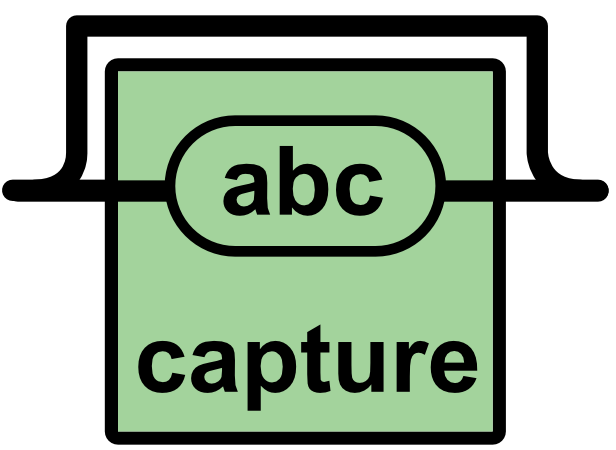
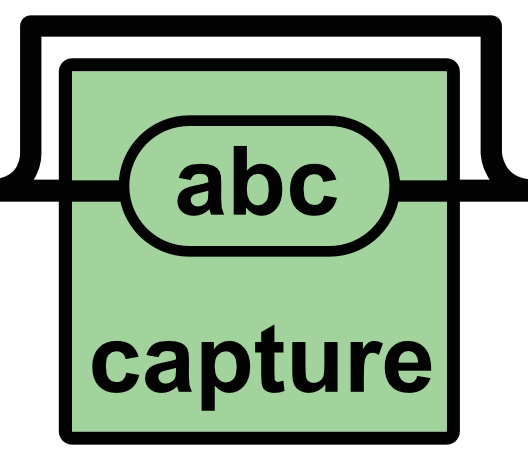
adds in new png files and tweaks CSS

diff --git a/client/index.html b/client/index.html
@@ -29,7 +29,7 @@
   <a href="https://github.com/RegExpress/regexpress"><img style="position: absolute; top: 0; left: 0; border: 0;" src="https://camo.githubusercontent.com/82b228a3648bf44fc1163ef44c62fcc60081495e/68747470733a2f2f73332e616d617a6f6e6177732e636f6d2f6769746875622f726962626f6e732f666f726b6d655f6c6566745f7265645f6161303030302e706e67" alt="Fork me on GitHub" data-canonical-src="https://s3.amazonaws.com/github/ribbons/forkme_left_red_aa0000.png"></a>
 
   <div class="howDoesItWork hidden" id="howDoesItHidden">
-    <div id="explanation">Welcome to RegExpress, a tool that lets you build regexes by creating a syntax diagram instead of having to memorize countless esoteric symbols.<br><br>RegExpress will show you the text and the "regex railroad" syntax diagram for any regular expression. Type in a regex to see the diagram it creates, or build your own out of the library components.<br></br><center> Read about how RegExpress was built <a class="blog" href="http://www.techphrasis.com/planting-a-regex-tree-the-building-of-regexpress/">here</a><center></div>
+    <div id="explanation">Welcome to RegExpress, a tool that lets you build regexes by creating a syntax diagram instead of having to memorize countless esoteric symbols.<br><br>RegExpress will show you the text and the "regex railroad" syntax diagram for any regular expression. Type in a regex to see the diagram it creates, or build your own out of the library components.<br></br>Each library component represents a type of character or group of characters. Together, these components will describe a pattern when read left to right on the railroad. This pattern is just another way to describe a regular expression.<br></br><center>Try the regex /(\w+!)/</center><br><center> Read about how RegExpress was built <a class="blog" href="http://www.techphrasis.com/planting-a-regex-tree-the-building-of-regexpress/">here</a><center></div>
 
     <div class="githublink"><a href="https://github.com/RegExpress/regexpress"><div id="contribute">Contribute to this open source project!</a></div><a href="https://github.com/RegExpress/regexpress"><img class="octocat" src="assets/octocat.png"></img></a></div>
   </div>
@@ -100,20 +100,20 @@
     <script src="bundle/bundle.js"></script>
     <script src="app/main/main.js"></script>
     <script src="app/main/main.service.js"></script>
+    <script src="components/aboutUs/informationDirective.directive.js"></script>
     <script src="components/matches/matches.directive.js"></script>
     <script src="components/matches/matches.factory.js"></script>
     <script src="components/modify-tree/modify-tree.factory.js"></script>
     <script src="components/railroad/railroad.click-helpers.factory.js"></script>
     <script src="components/railroad/railroad.directive.js"></script>
     <script src="components/railroad/railroad.service.js"></script>
-    <script src="components/aboutUs/informationDirective.directive.js"></script>
     <script src="components/regex/regex.directive.js"></script>
     <script src="components/test-string/test-string.directive.js"></script>
     <script src="components/tool-tips/tooltips.directive.js"></script>
     <script src="components/tool-tips/tooltips.factory.js"></script>
+    <script src="components/tree-to-input/treeToInput.directive.js"></script>
     <script src="components/workspace/workspace.directive.js"></script>
     <script src="components/workspace/workspace.factory.js"></script>
-    <script src="components/tree-to-input/treeToInput.directive.js"></script>
     <!-- endinject -->
 
     <!-- start Google Analytics -->

diff --git a/client/components/workspace/workspace.template.html b/client/components/workspace/workspace.template.html
@@ -1,13 +1,15 @@
 <div class="library">
   <span class="cell" id="one">
-    <br>
     <tool-tip><img class="components" id="text" draggable="false" src="assets/elements/text.png"></img></tool-tip>
     <tool-tip><img class="components" id="capture-group" draggable="false" src="assets/elements/capture.png"></img></tool-tip>
-    <tool-tip><img class="components" id="start" draggable="false" src="assets/elements/start.png"></img></tool-tip>
-    <tool-tip><img class="components" id="end" draggable="false" src="assets/elements/end.png"></img></tool-tip>
+    <div style="display: inline-block">
+      <tool-tip><img class="components" id="start" draggable="false" src="assets/elements/start.png"></img></tool-tip>
+    </div>
+    <div style="display: inline-block; padding-bottom: 20px">
+      <tool-tip><img class="components" id="end" draggable="false" src="assets/elements/end.png"></img></tool-tip>
+    </div>
   </span>
   <span class="cell" id="two">
-    <br>
     <tool-tip><img class="components" id="digit" draggable="false" src="assets/elements/digit.png"></img></tool-tip>
     <tool-tip><img class="components" id="word" draggable="false" src="assets/elements/word_character.png"></img></tool-tip>
     <tool-tip><img class="components" id="word-boundary" draggable="false" src="assets/elements/word_boundary.png"></img></tool-tip>
@@ -15,7 +17,6 @@
     <tool-tip><img class="components" id="any-character" draggable="false" src="assets/elements/any_character.png"></img></tool-tip>
   </span>
   <span class="cell" id="three">
-    <br>
     <tool-tip><img class="components" id="non-digit" draggable="false" src="assets/elements/non_digit.png"></img></tool-tip>
       <tool-tip><img class="components" id="non-word" draggable="false" src="assets/elements/non_word_character.png"></img></tool-tip>
       <tool-tip><img class="components" id="non-word-boundary" draggable="false" src="assets/elements/non_word_boundary.png"></img></tool-tip>
@@ -23,9 +24,29 @@
   </span>
   <span class="cell" id="four">
     <br>
-    <tool-tip><img class="components" id="optional" draggable="false" src="assets/elements/optional.png"></img></tool-tip>
-    <tool-tip><img class="components" id="repeating" draggable="false" src="assets/elements/repeating.png"></img></tool-tip>
-    <tool-tip><img class="components" id="alternate" draggable="false" src="assets/elements/or.png"></img></tool-tip>
-    <tool-tip><img class="components" id="alternate-solo" draggable="false" src="assets/elements/temp_alternate-solo.png"></img></tool-tip>
+    <div>
+      <div style="display: inline-block">
+        <tool-tip><img class="components" id="optional" draggable="false" src="assets/elements/optional.png"></img></tool-tip>
+        <span class="title">Optional block</span>
+      </div>
+      <div style="display: inline-block">
+        <tool-tip><img class="components" id="repeating" draggable="false" src="assets/elements/repeating.png"></img></tool-tip>
+        <span class="title">Repeating block</span>
+      </div>
+      <div style="display: inline-block">
+        <tool-tip><img class="components" id="alternate" draggable="false" src="assets/elements/or_capture.png"></img></tool-tip>
+        <span class="title">alternative block</span>
+      </div>
+      <div style="display: inline-block">
+        <tool-tip><img class="components" id="alternate-solo" draggable="false" src="assets/elements/or_solo.png"></img></tool-tip>
+        <span class="title">extra alternatives</span>
+      </div>
+    </div>
   </span>
 </div>
+
+
+
+
+
+

diff --git a/client/components/matches/matches.directive.js b/client/components/matches/matches.directive.js
@@ -9,7 +9,7 @@
 
     return {
       restrict: "E",
-      template: '<div id="matches" contenteditable></div>',
+      template: '<div id="matches" contenteditable>Write text here!</div>',
       link: function(scope, element, attrs) {
 
         scope.$watch('main.regexp', function(newVal, oldVal, scope){
